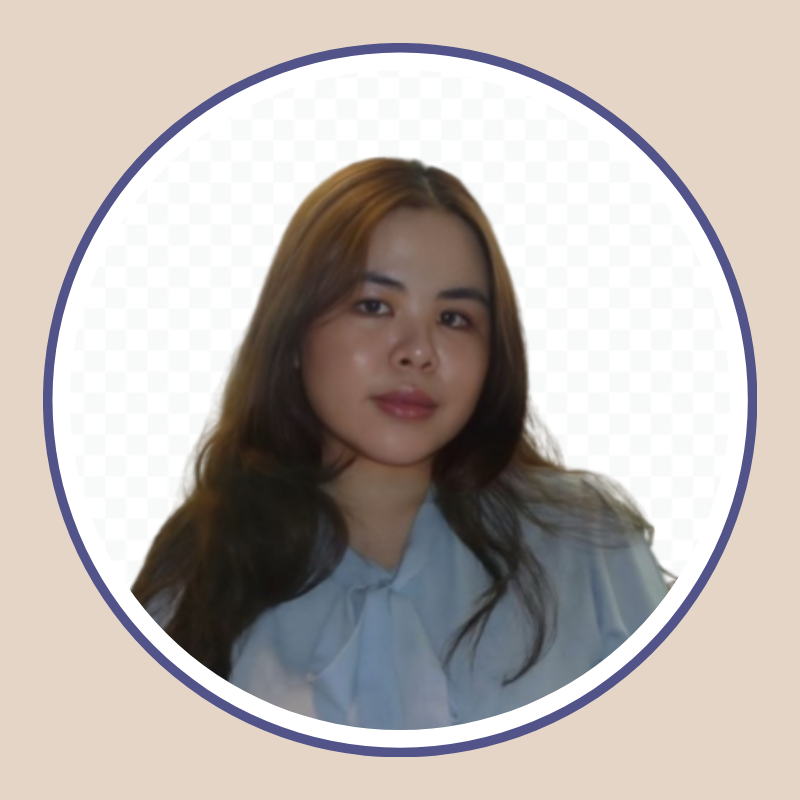
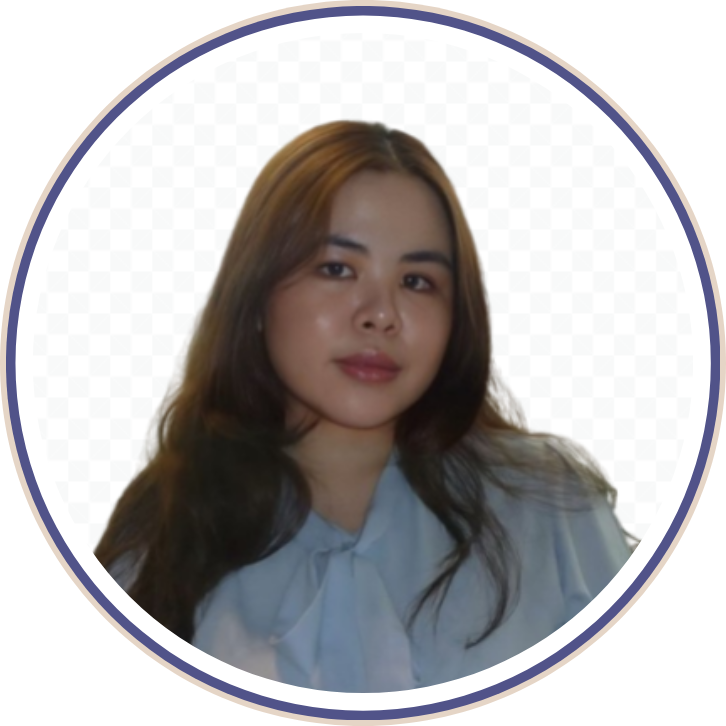
added img & edited and refined the code

diff --git a/style.css b/style.css
@@ -3,7 +3,13 @@ body {
     font-family: 'Arial', sans-serif;
     margin: 0;
     padding: 0;
-    background-color: #f4f4f4;
+    
+    /* bg image*/
+    background-image: url('img_6.JPG');
+    background-size: cover;
+    background-position: center;
+    background-attachment: fixed;
+    background-repeat: no-repeat;
 }
 
 /* header */
@@ -65,8 +71,7 @@ nav a:hover {
     justify-content: center;
     flex-wrap: wrap;
     gap: 20px;
-    margin: 30px auto;
-    max-width: 1000px;
+    margin-top: 20px;
 }
 
 .project {
@@ -76,6 +81,8 @@ nav a:hover {
     box-shadow: 0px 4px 8px rgba(0, 0, 0, 0.1);
     text-align: center;
     max-width: 300px;
+    flex: 1;
+    min-width: 250px;
 }
 
 .project img {
